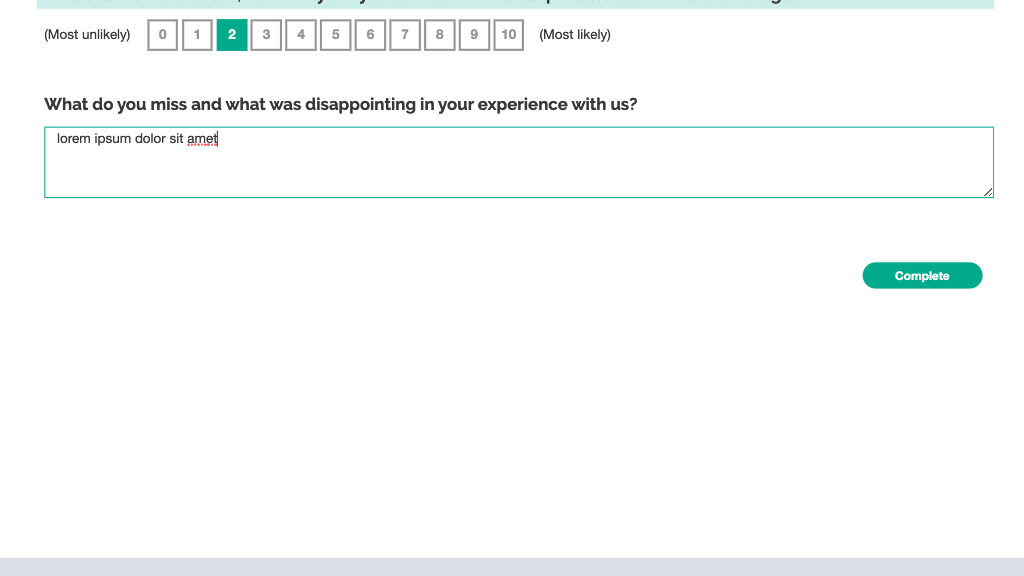
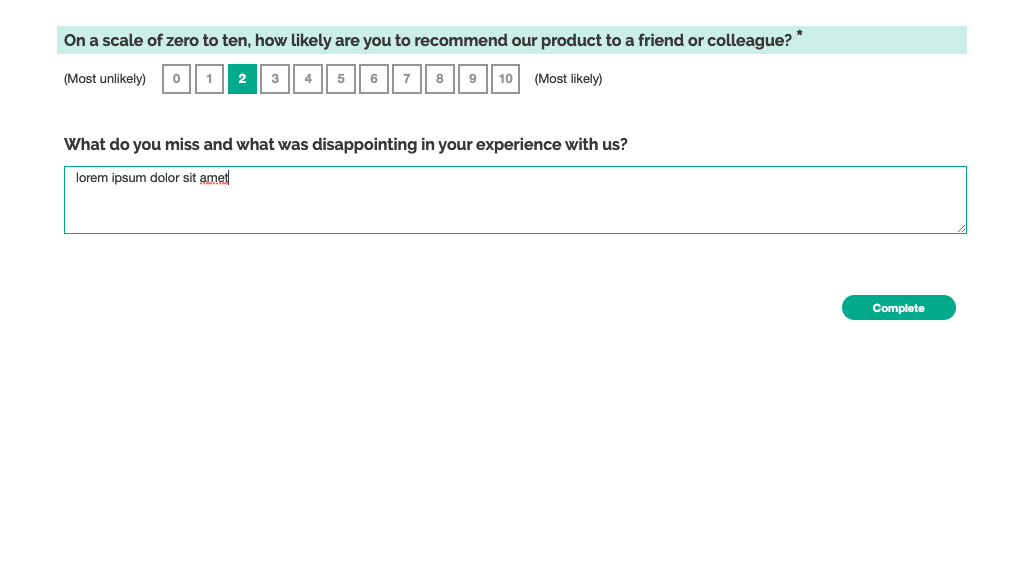
css fixes

diff --git a/src/customQuestionTypes/labeledRange.css b/src/customQuestionTypes/labeledRange.css
@@ -1,25 +1,149 @@
+.sliderContainer {
+  width: 99%; /* stop from overflowing sides and triggering horizontal scrollbar */
+}
 .slider {
+  -webkit-appearance: none;
+  appearance: none;
+  background: transparent;
   cursor: pointer;
+
+  padding-left: 2%;
+  padding-right: 2%;
+  border: 0; /* remove bottom border line */
 }
+
+.sliderLabels {
+  /* display: ; */
+  width: 90%;
+  justify-content: space-between;
+  padding-left: 2%;
+  padding-right: 2%;
+}
+
+.sliderLabel {
+  display: table-cell;
+}
+
 .slider::-webkit-slider-runnable-track {
+  width: 100%;
+  height: 5px;
+  background: #ddd;
+  border: none;
+  border-radius: 3px;
 }
 
-.slider.sliderSelected::-webkit-slider-thumb {
-  /* show thumb */
+.slider::-webkit-slider-thumb {
+  -webkit-appearance: none;
+  border: none;
+  height: 20px;
+  width: 16px;
+  border-radius: 40%;
+  background: rgb(26, 179, 148);
+  margin-top: -8px;
+  visibility: hidden;
 }
 
-.slider.progressBar::-webkit-slider-runnable-track {
-  /* sometimes we want to show the area to the left of the thumb highlighted */
+.slider.sliderClicked::-webkit-slider-thumb {
+  visibility: visible;
 }
 
-/* Mouse-over effects */
-.slider:hover {
-  opacity: 1; /* Fully shown on mouse-over */
-  /* Show thumb on hover, have thumb track with cursor?*/
+.slider:focus {
+  outline: none;
 }
+
+.slider:focus::-webkit-slider-runnable-track {
+  background: #ccc;
+}
+
+/* .slider {
+  margin: 10; 
+  box-sizing: border-box;
+} */
 
 /* 
-Todo
-- add styling for mozilla, edge, ie, as these take different pseudo-elements from webkit
+.sv-root-modern ::-webkit-scrollbar {
+  background-color: transparent !important;
+}
+
+.sv-root-modern ::-webkit-scrollbar-thumb {
+  background-color: transparent !important;
+}
+
+.sv-root-modern ::-moz-scrollbar {
+  background-color: transparent !important;
+}
+
+.sv-root-modern ::-moz-scrollbar-thumb {
+  background-color: transparent !important;
+}
+.sv-root-modern ::-ms-scrollbar {
+  background-color: transparent !important;
+}
+.sv-root-modern ::-ms-scrollbar-thumb {
+  background-color: transparent !important;
+}
+
+.slider::-webkit-slider-thumb {
+  display: none;
+}
+
+.slider.sliderClicked::-webkit-slider-thumb {
+  display: block !important;
+}
+
+.slider::-webkit-slider-runnable-track {
+  height: 0.5rem;
+}
+
+.slider::-moz-range-track {
+  height: 0.5rem;
+}
+.slider::-moz-range-thumb {
+  display: none;
+}
+.slider.sliderClicked::-moz-range-thumb {
+  display: block !important;
+}
+.slider::-ms-thumb {
+  display: none;
+}
+.slider.sliderClicked::-ms-thumb {
+  display: block !important;
+}
+.slider::-ms-track {
+  height: 0.5rem;
+}
 
 */
+
+/*
+ option[title="long-label"] {
+  width: 2ex;
+  display: flex;
+  justify-content: center;
+  height: 42px;
+  align-items: end;
+  height: 4ex;
+  background-position-y: -15px;
+  background-position-x: center;
+  z-index: -1;
+  font-size: 12px;
+  max-width: 80px;
+  margin-left: 50px;
+  margin-right: 50px;
+}
+ option[title="short-label"] {
+  width: 2ex;
+  display: flex;
+  justify-content: center;
+  height: 42px;
+  align-items: end;
+  height: 4ex;
+  background-position-y: -15px;
+  background-position-x: center;
+  z-index: -1;
+  font-size: 12px;
+  max-width: 80px;
+  margin-left: 15px;
+  margin-right: 5px;
+} */

diff --git a/src/customQuestionTypes/labeledRange.js b/src/customQuestionTypes/labeledRange.js
@@ -26,8 +26,6 @@ Modifies the existing range component to add track labels.
 
 */
 
-import { CssClassBuilder } from "survey-react";
-
 export function labeledRange(SurveyJS) {
   var widget = {
     name: "labeledRange",
@@ -35,11 +33,12 @@ export function labeledRange(SurveyJS) {
     isFit: (question) => {
       return question.getType() === "text" && question.inputType === "range";
     },
+
     isDefaultRender: true,
+
     init() {
-      SurveyJS.Serializer.addProperty("text", {
-        name: "valueLabels",
-        type: "itemValues",
+      SurveyJS.JsonObject.metaData.addProperty("text", {
+        name: "valueLabels:itemvalues",
         category: "slider",
         default: [
           { value: 0, text: "Strongly Disagree" },
@@ -49,15 +48,18 @@ export function labeledRange(SurveyJS) {
           { value: 100, text: "Strongly Agree" },
         ],
       });
-      SurveyJS.Serializer.addProperty("text", {
+
+      SurveyJS.JsonObject.metaData.addProperty("text", {
         name: "progressBar",
         type: "boolean",
         category: "slider",
         default: false,
       });
     },
+
     afterRender: (question, el) => {
-      console.log(question);
+      console.log("question", question);
+      el.classList.add("sliderContainer");
       const dl = document.createElement("datalist");
       dl.id = `${question.name}_slider_vals`;
       question.valueLabels.forEach((label) => {
@@ -66,19 +68,24 @@ export function labeledRange(SurveyJS) {
         //
         var option = document.createElement("option");
         option.value = label.value;
+        option.classList.add("sliderLabel");
         console.log(label);
         if (label.text) option.label = label.text;
         dl.appendChild(option);
       });
-      dl.style = "display: flex; justify-content: space-between;";
+      //dl.style = "display: flex; justify-content: space-between;";
+      dl.classList.add("sliderLabels");
       el.appendChild(dl);
 
       const slider = el.getElementsByTagName("input")[0];
       slider.setAttribute("list", dl.id);
       slider.classList.add("slider");
 
-      if (question.value !== undefined) slider.classList.add("sliderClicked");
       if (question.showProgressBar) slider.classList.add("progressBar");
+
+      slider.addEventListener("mousedown", () =>
+        slider.classList.add("sliderClicked")
+      );
 
       //Todo:
       // - style ticks

diff --git a/src/surveyFactory.jsx b/src/surveyFactory.jsx
@@ -54,7 +54,7 @@ export default function SurveyFactory(surveyName, surveyJson, scoreFunc, sha) {
         result,
         secondsElapsed: sender.timeSpent,
       };
-      console.log(record);
+      // console.log(record);
       onComplete(record);
       clearStorage();
     };
